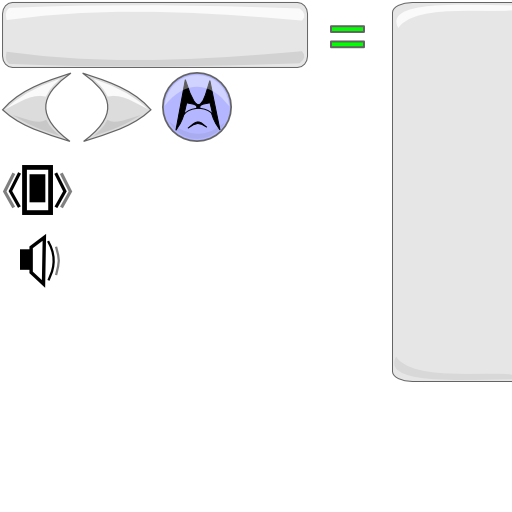
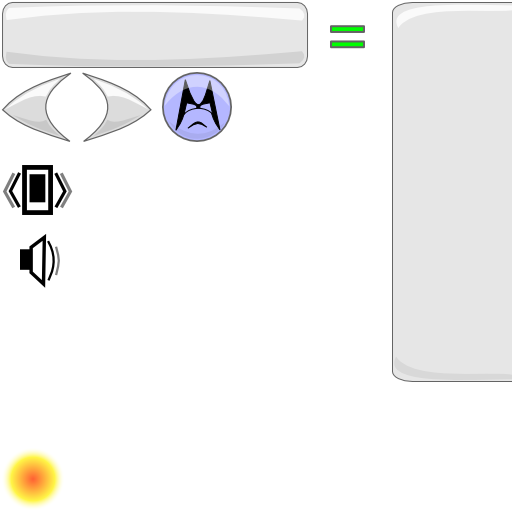
added simple particle system

Changed region(s): [[0.0, 0.875, 0.125, 1.0]]

diff --git a/src/mhyhre/lightrabbit/Scenes/SceneGameMemorize.java b/src/mhyhre/lightrabbit/Scenes/SceneGameMemorize.java
@@ -26,8 +26,6 @@ public class SceneGameMemorize extends MhyhreScene {
 	
 	private int maxItemCount;
 	private int currentItemCount;
-	private int errorsCount = 0;
-	private int errorMaxCount = 2;
 	
 	ArrayList<WordItem> wordItems;
 	ArrayList<Text> labels;
@@ -125,9 +123,7 @@ public class SceneGameMemorize extends MhyhreScene {
 			
 			
 			if(SceneGame.getMode() == GameState.Recollect){
-				
-				// FIXME: save colors
-								
+
 				if(rightItem.isEnabled() == true){
 					rightItem.desireColor(colorDelta, 1, 1, 1);
 				} else {
@@ -339,10 +335,10 @@ public class SceneGameMemorize extends MhyhreScene {
 						selectedLeft = -1;
 						selectedRight = -1;
 						
-						errorsCount++;
 						MainActivity.vibrate(30);
 						
-						if(errorsCount > errorMaxCount){
+						sceneGame.addError();
+						if(sceneGame.isOverErrorsLimit()){
 							sceneGame.setGameState(GameState.Loss);
 						} else {
 							MainActivity.Res.playSound("error");
@@ -437,22 +433,6 @@ public class SceneGameMemorize extends MhyhreScene {
 		for(int i=0; i<currentItemCount; i+=2){
 			Log.i(MainActivity.DebugID, "[" + wordItems.get(i).getWord() + "-" + wordItems.get(i+1).getWord() + "]");
 		}
-	}
-	
-	public int getErrorsCount() {
-		return errorsCount;
-	}
-
-	public void setErrorsCount(int errorsCount) {
-		this.errorsCount = errorsCount;
-	}
-
-	public int getErrorMaxCount() {
-		return errorMaxCount;
-	}
-
-	public void setErrorMaxCount(int errorMaxCount) {
-		this.errorMaxCount = errorMaxCount;
 	}
 
 }

diff --git a/src/mhyhre/lightrabbit/Scenes/SceneGame.java b/src/mhyhre/lightrabbit/Scenes/SceneGame.java
@@ -36,6 +36,10 @@ public class SceneGame extends MhyhreScene {
 	
 	Sprite spriteNext;
 	
+	int globalErrorCount = 0;
+	final int globalErrorMaxCount = 3;
+
+
 	SceneGameMemorize sceneMemorize;
 	SceneGameMessage sceneMessage;
 
@@ -115,7 +119,6 @@ public class SceneGame extends MhyhreScene {
 		
 		sceneMemorize.setWordsList(words);
 		sceneMemorize.update();
-		sceneMemorize.setErrorsCount(0);
 		
 		if(getCurrentLevel()>getMaxLevel()){
 			SceneRoot.SetState(SceneStates.MainMenu);
@@ -262,13 +265,13 @@ public class SceneGame extends MhyhreScene {
 
 		case Result:
 			enableNextButton(true);
-			sceneMessage.displayEndScene(sceneMemorize.getErrorsCount());
+			sceneMessage.displayEndScene(getErrorCount());
 			sceneMessage.Show();
 			break;
 			
 		case Loss:
 			enableNextButton(true);
-			sceneMessage.displayLosingScene(sceneMemorize.getErrorsCount());
+			sceneMessage.displayLosingScene(getErrorCount());
 			sceneMessage.Show();
 			break;
 		}
@@ -294,6 +297,28 @@ public class SceneGame extends MhyhreScene {
 	public int getMaxLevel(){
 		return maxLevel;
 	}
+
+	public int getErrorCount() {
+		return globalErrorCount;
+	}
+
+	public void setErrorCount(int errorCount) {
+		globalErrorCount = errorCount;
+	}
 	
+	public void addError() {
+		globalErrorCount++;
+	}
 	
+	public boolean isOverErrorsLimit(){
+		if(globalErrorCount >= globalErrorMaxCount){
+			return true;
+		} else {
+			return false;
+		}
+	}
+	
+	public int getErrorMaxCount() {
+		return globalErrorMaxCount;
+	}
 }

diff --git a/src/mhyhre/lightrabbit/Scenes/SceneMainMenu.java b/src/mhyhre/lightrabbit/Scenes/SceneMainMenu.java
@@ -15,6 +15,7 @@ import mhyhre.lightrabbit.R;
 
 import mhyhre.lightrabbit.MainActivity;
 import mhyhre.lightrabbit.MhyhreScene;
+import mhyhre.lightrabbit.Particles.ParticleManager;
 
 import org.andengine.entity.scene.background.Background;
 import org.andengine.entity.sprite.Sprite;
@@ -34,7 +35,9 @@ public class SceneMainMenu extends MhyhreScene {
 
 	private Sprite mSpriteItem1;
 	private Sprite mSpriteItem2;
-	private Sprite mSpriteItem3;	
+	private Sprite mSpriteItem3;
+	
+	ParticleManager pm;
 
 	
 	public SceneMainMenu() {
@@ -42,7 +45,12 @@ public class SceneMainMenu extends MhyhreScene {
 		mBackGround = new Background(0.2f, 0.6f, 0.7f);
 		setBackground(mBackGround);
 		setBackgroundEnabled(true);
-
+		
+		
+		pm = new ParticleManager(MainActivity.getHalfWidth(), MainActivity.getHalfHeight(), MainActivity.Res.getTextureRegion("ParticlePoint"), 50);
+		attachChild(pm);
+		
+		
 		// Text captions
 		String TextItem1 = MainActivity.Me.getString(R.string.MenuItem_Play);
 		String TextItem3 = MainActivity.Me.getString(R.string.MenuItem_About);
@@ -191,6 +199,14 @@ public class SceneMainMenu extends MhyhreScene {
 	public boolean onSceneTouchEvent(final TouchEvent pSceneTouchEvent) {
 
 		return super.onSceneTouchEvent(pSceneTouchEvent);
+	}
+	
+	
+	@Override
+	protected void onManagedUpdate(float pSecondsElapsed) {
+		
+		pm.update();
+		super.onManagedUpdate(pSecondsElapsed);
 	}
 
 }

diff --git a/src/mhyhre/lightrabbit/Particles/Particle.java b/src/mhyhre/lightrabbit/Particles/Particle.java
@@ -1,0 +1,80 @@
+package mhyhre.lightrabbit.Particles;
+
+import java.util.Random;
+
+public class Particle {
+	
+	private static Random random = new Random();
+
+	Vector2f location;
+	Vector2f velocity;
+	Vector2f diminution;
+	int lifespan;
+	int maxLifeSpan;
+
+
+	Particle(float x, float y) {
+		setMaxLifeSpan(100);
+		respawn(x, y);
+	}
+
+	public void respawn(float x, float y) {
+		diminution = new Vector2f(0.98f, 0.99f);
+		velocity = new Vector2f( -( 10 + random.nextFloat()*4.0f), random.nextFloat() - 0.5f);
+		location = new Vector2f(x, y);
+		lifespan = maxLifeSpan;
+	}
+	
+
+	
+	public int getLifespan() {
+		return lifespan;
+	}
+
+	public void setLifespan(int time){
+		lifespan = time;
+	}
+	
+	public void setLifespan(int time, int offset){
+		lifespan = time + random.nextInt(offset) - offset/2;
+	}
+
+	public int getMaxLifeSpan() {
+		return maxLifeSpan;
+	}
+
+	public void setMaxLifeSpan(int maxLifeSpan) {
+		this.maxLifeSpan = maxLifeSpan;
+	}
+	
+	
+	public int getLefespan(){
+		return lifespan;
+	}
+	
+	public Vector2f getLocation(){
+		return location;
+	}
+	
+	public float getX(){
+		return location.x;
+	}
+
+	public float getY(){
+		return location.y;
+	}
+
+	public void update() {
+		velocity.mult(diminution);
+		location.add(velocity);
+		lifespan--;
+	}
+
+	public boolean isDead() {
+		if (lifespan < 0) {
+			return true;
+		} else {
+			return false;
+		}
+	}
+}

diff --git a/src/mhyhre/lightrabbit/Particles/ParticleManager.java b/src/mhyhre/lightrabbit/Particles/ParticleManager.java
@@ -1,0 +1,50 @@
+package mhyhre.lightrabbit.Particles;
+
+import mhyhre.lightrabbit.MainActivity;
+
+import java.util.ArrayList;
+
+import org.andengine.entity.sprite.batch.SpriteBatch;
+import org.andengine.opengl.texture.region.ITextureRegion;
+
+
+public class ParticleManager extends SpriteBatch {
+
+	ArrayList<Particle> particles;
+	ITextureRegion region;
+	
+	public ParticleManager(float pX, float pY, ITextureRegion iTextureRegion, int pCapacity) {
+		super(pX/2, pY/2, iTextureRegion.getTexture(), pCapacity, MainActivity.Me.getVertexBufferObjectManager());
+
+		
+		region = iTextureRegion;
+		particles = new ArrayList<Particle>(pCapacity);
+		
+		for(int i=0; i<pCapacity; i++){
+			Particle particle = new Particle(getX(),getY());
+			particle.setMaxLifeSpan(100);
+			particle.setLifespan(6+i, 5);
+			particles.add(particle);
+		}
+	}
+
+	public void update(){
+		
+		float w = region.getWidth();
+		float h = region.getHeight();
+		
+		for(Particle particle: particles){
+			particle.update();
+			
+			if(particle.isDead()){
+				particle.respawn(getX(), getY());
+				particle.setLifespan(60, 40);
+			}
+			
+			draw(region, particle.getX() - w/2, particle.getY() - h/2, w, h, 0, 1, 1, 1, (float)particle.getLifespan()/(float)particle.getMaxLifeSpan());
+		}
+		super.submit();
+	}
+	
+	
+}

diff --git a/src/mhyhre/lightrabbit/Particles/Vector2f.java b/src/mhyhre/lightrabbit/Particles/Vector2f.java
@@ -1,0 +1,29 @@
+package mhyhre.lightrabbit.Particles;
+
+public class Vector2f {
+	float x, y;
+	
+	public Vector2f() {
+		x = 0;
+		y = 0;
+	}
+	
+	public Vector2f(float x, float y) {
+		this.x = x;
+		this.y = y;
+	}
+
+	public Vector2f getClone() {
+		return new Vector2f(x, y);
+	}
+	
+	public void add(Vector2f arg){
+		x += arg.x;
+		y += arg.y;
+	}
+	
+	public void mult(Vector2f arg){
+		x *= arg.x;
+		y *= arg.y;
+	}
+}

diff --git a/src/mhyhre/lightrabbit/ResourceManager.java b/src/mhyhre/lightrabbit/ResourceManager.java
@@ -102,6 +102,10 @@ public class ResourceManager {
 		
 		region = TextureRegionFactory.extractFromTexture(atlas, 0, 230, 70, 60, false);
 		regions.put("ButtonSound", region);
+		
+		region = TextureRegionFactory.extractFromTexture(atlas, 1, 447, 64, 64, false);
+		regions.put("ParticlePoint", region);
+
 
 		Log.i(MainActivity.DebugID, "ResourceManager::loadAtlases: OK");
 	}

diff --git a/src/mhyhre/lightrabbit/Scenes/SceneRoot.java b/src/mhyhre/lightrabbit/Scenes/SceneRoot.java
@@ -115,6 +115,7 @@ public class SceneRoot extends Scene {
 				break;
 
 			case NewGame:
+				mSceneGame.setErrorCount(0);
 				mSceneGame.setCurrentLevel(1);
 				mSceneGame.setGameState(GameState.Ready);
 				mSceneGame.Show();
